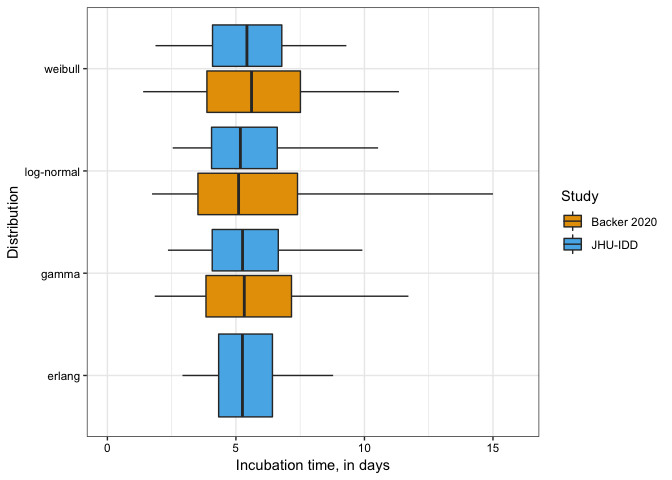
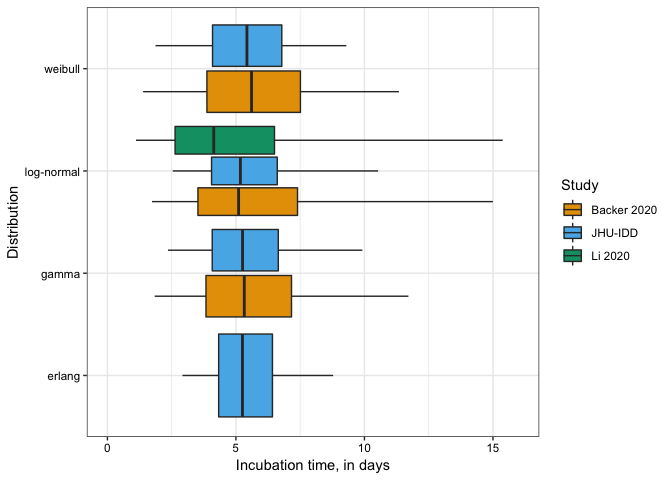
added Li 2020 estimate of incubation period

Changed region(s): [[0.2188, 0.25, 0.75, 0.4375], [0.8125, 0.375, 1.0, 0.5625], [0.2812, 0.4375, 0.4375, 0.4688]]

diff --git a/README.md b/README.md
@@ -1,7 +1,7 @@
 Real-time estimation of the Wuhan coronavirus incubation time
 =============================================================
 
-Updated: Wed Jan 29 20:56:05 2020
+Updated: Thu Jan 30 09:23:20 2020
 
 Our lab has been collecting data (freely available at
 [`data/nCoV-IDD-traveler-data.csv`](https://github.com/HopkinsIDD/ncov_incubation/blob/master/data/nCoV-IDD-traveler-data.csv))
@@ -223,10 +223,10 @@ incubation windows are shown below:
 
 <img src="README_files/figure-markdown_strict/comparison-1.png" style="display: block; margin: auto;" />
 
-The median estimates from all models lie between 5.1 and 5.61. The lower
-and upper tails for our distributions are all closer to the median than
-their Backer *et al* equivalents, whether this is due to having more
-data or our different estimation methodologies is open for
+The median estimates from all models lie between 4.14 and 5.61. The
+lower and upper tails for our distributions are all closer to the median
+than their Backer *et al* equivalents, whether this is due to having
+more data or our different estimation methodologies is open for
 investigation.
 
 *(Qulu Zheng, Hannah Meredith, Kyra Grantz, Qifang Bi, Forrest Jones,
